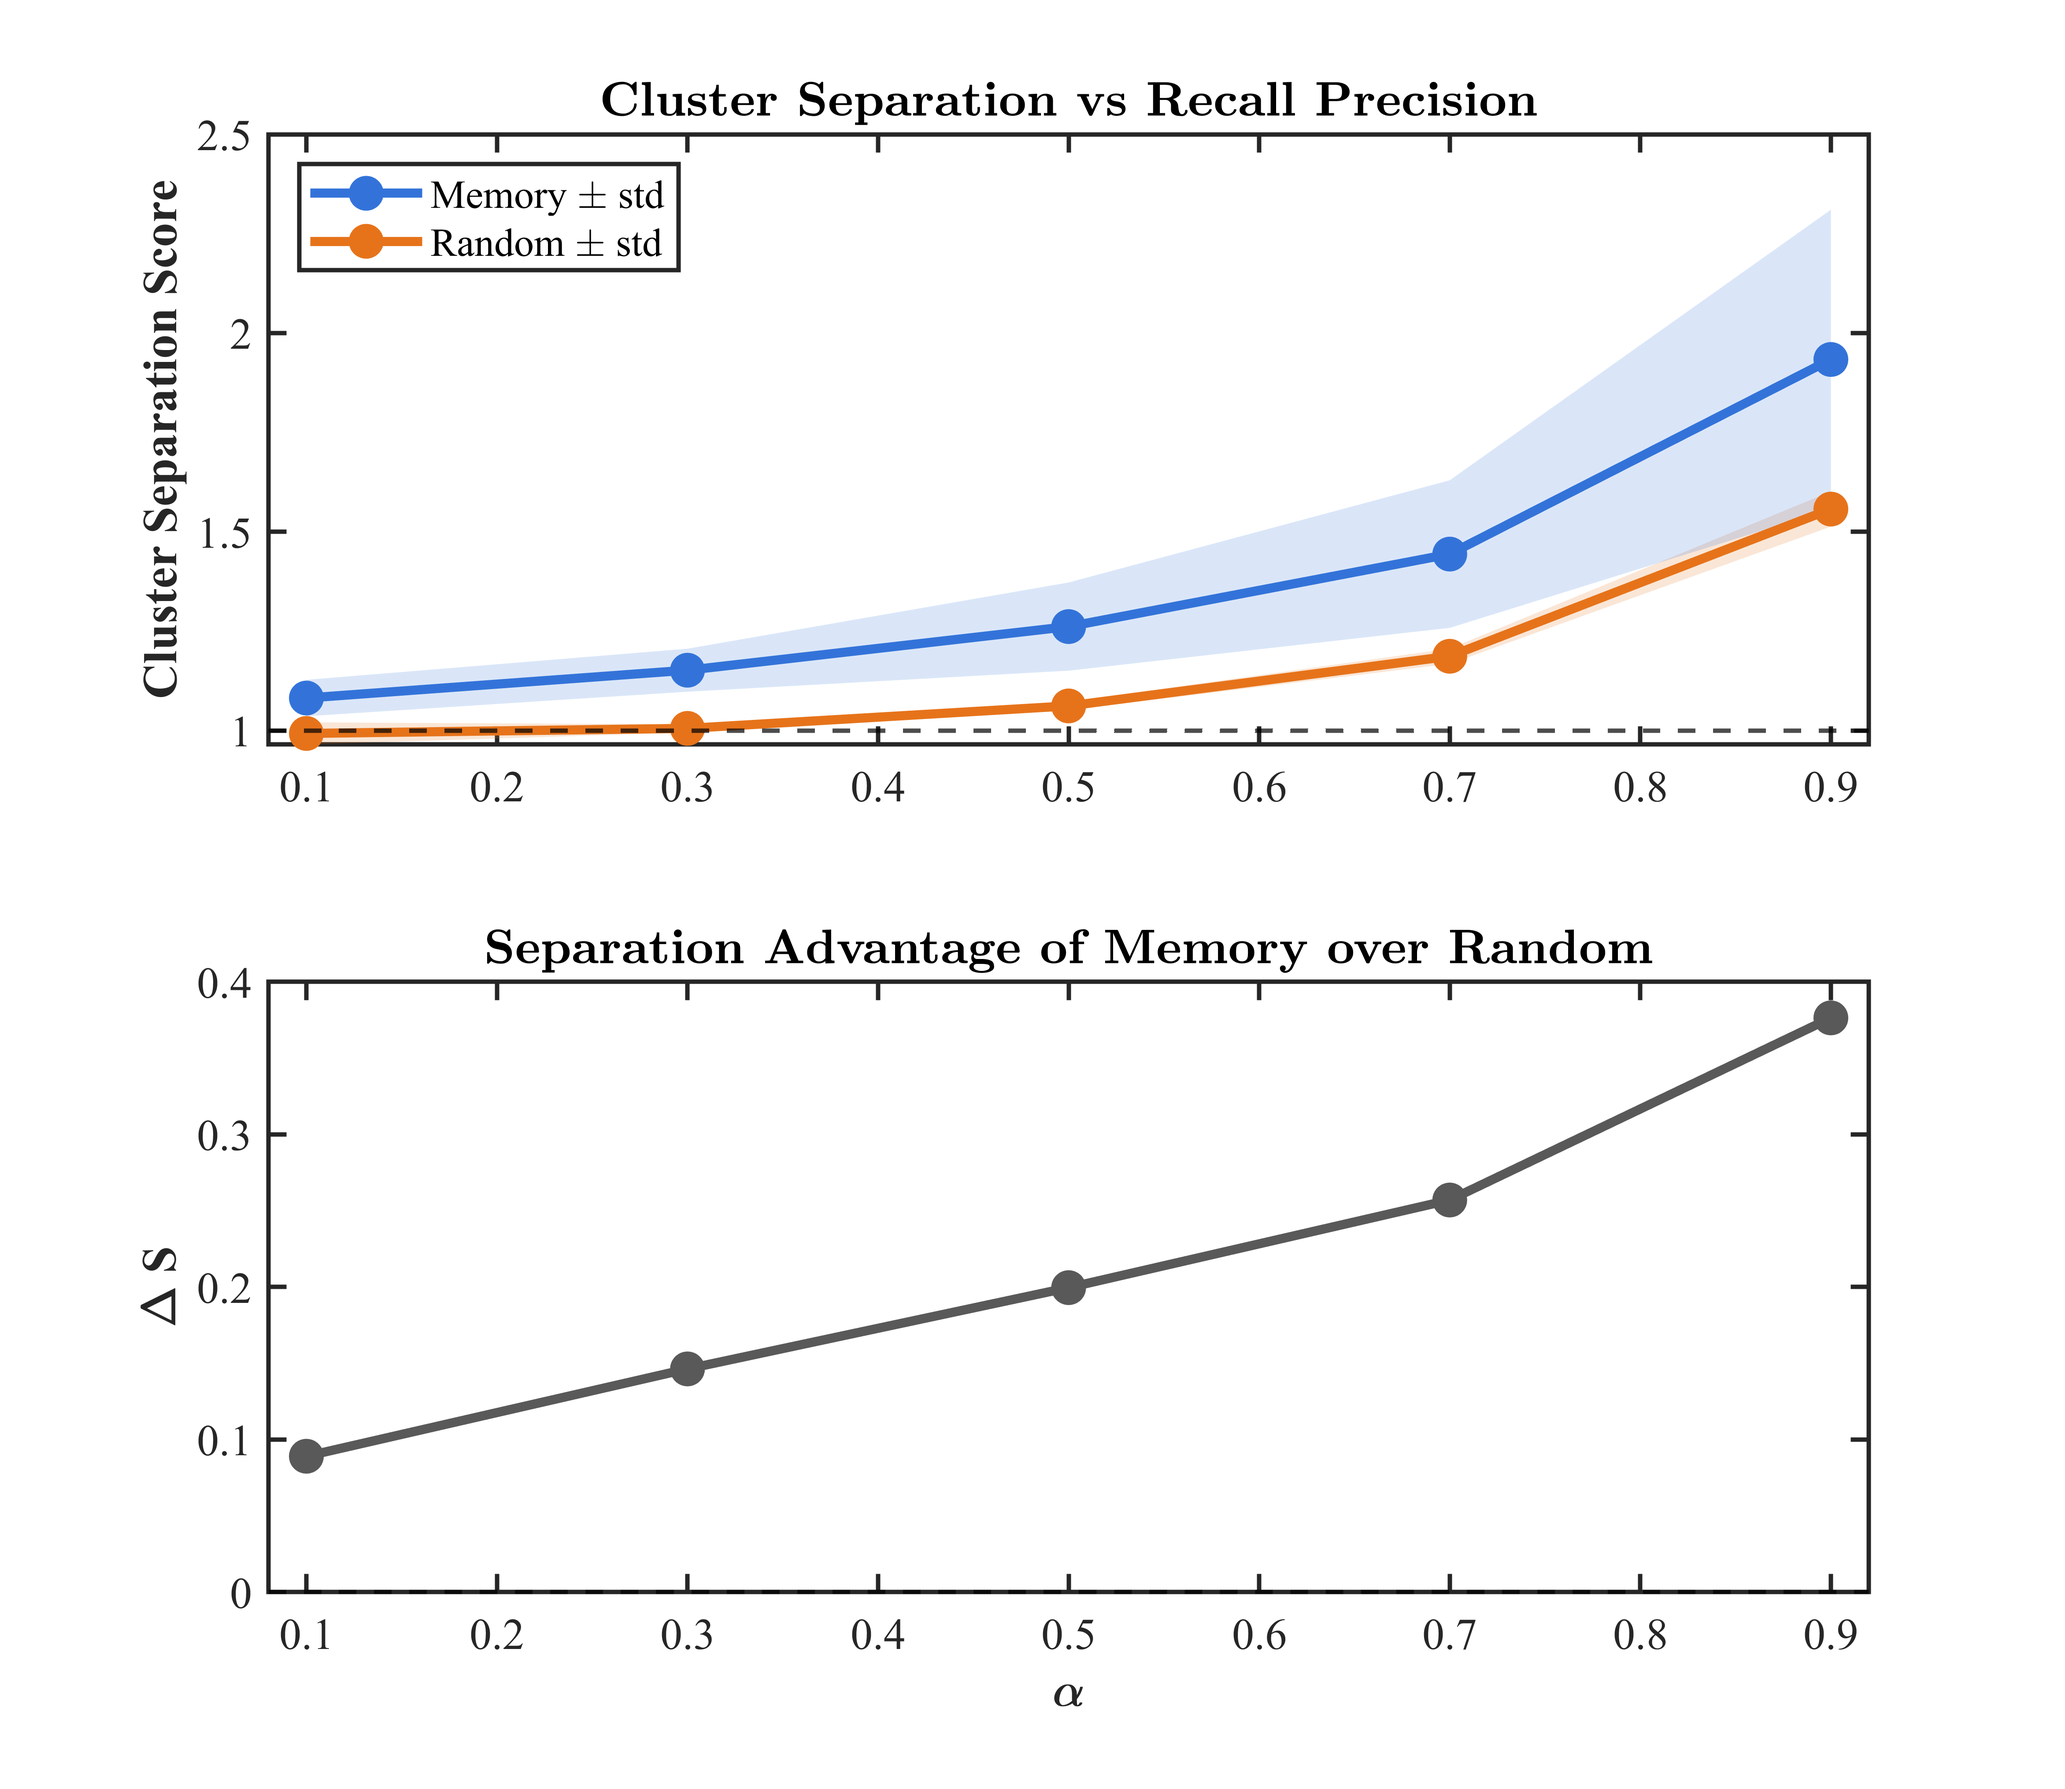
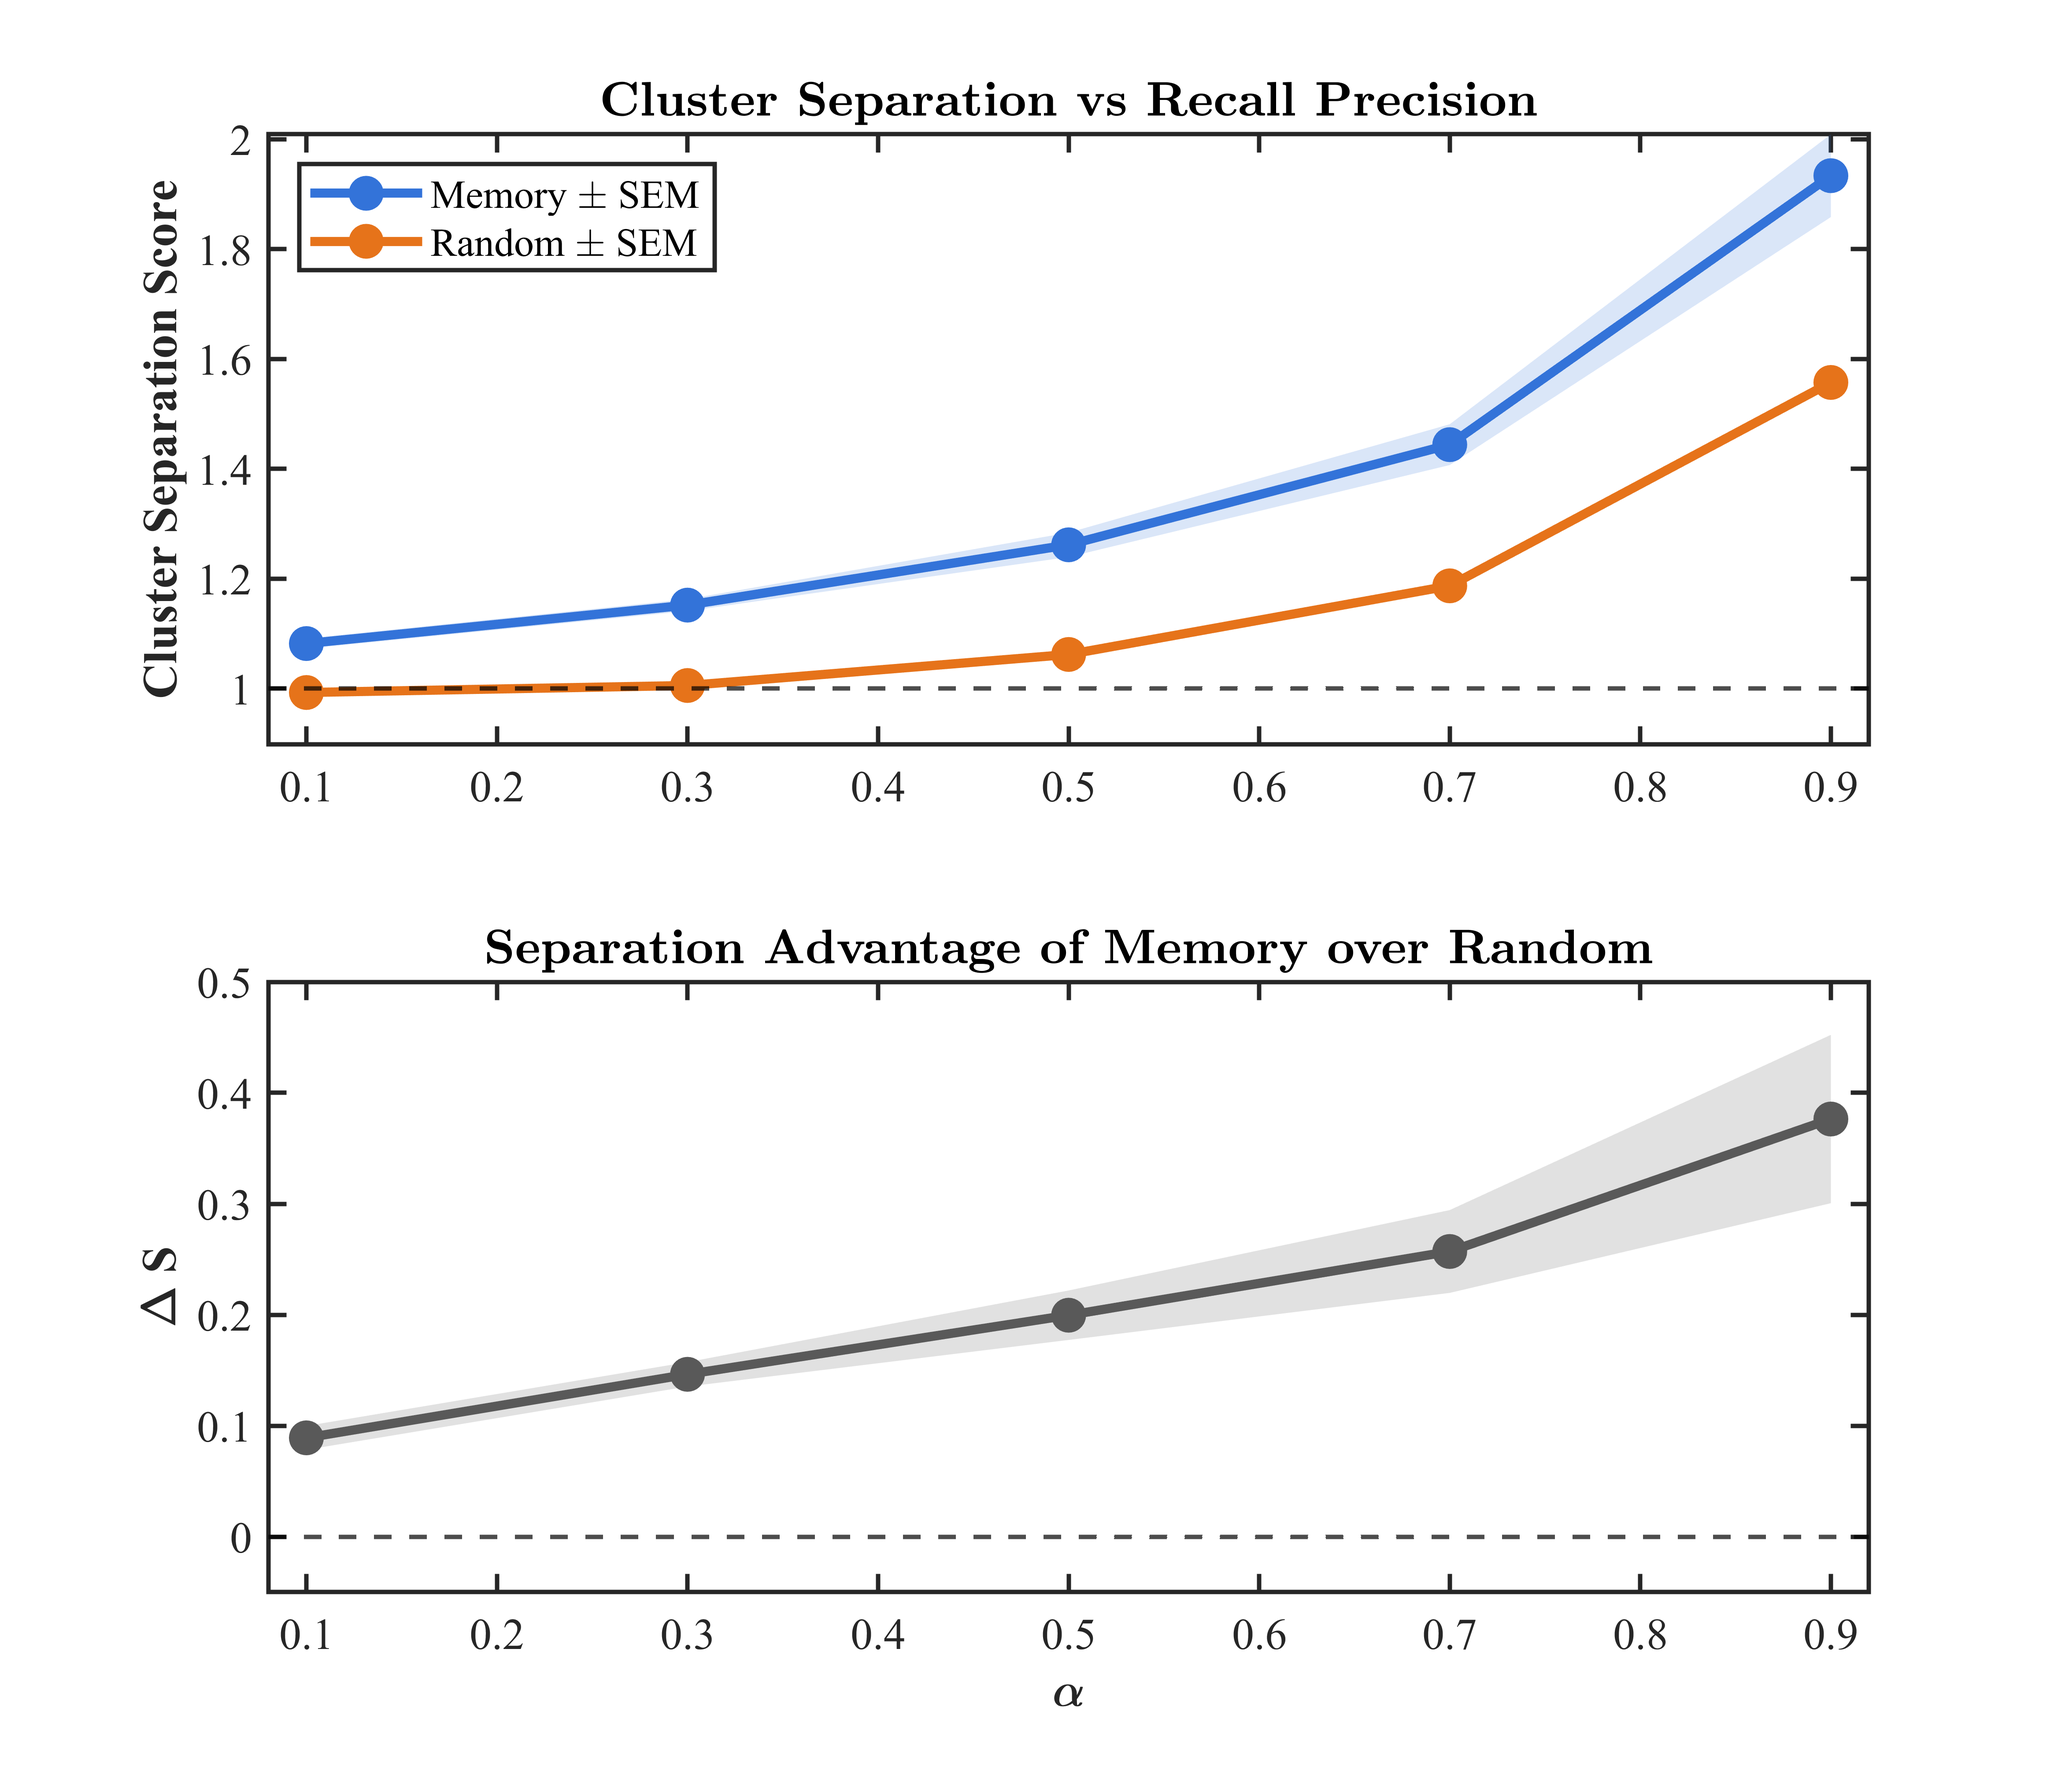
update to incldue SEM instread of std.

diff --git a/Analysis/Part3(ClassificationSequential)/FigureScripts/PlotSeparationVsAlpha_Shaded.m b/Analysis/Part3(ClassificationSequential)/FigureScripts/PlotSeparationVsAlpha_Shaded.m
@@ -1,12 +1,12 @@
 % PlotSeparationVsAlpha_Shaded.m  (FigureScripts/)
 %
-% Enhanced version of PlotSeparationVsAlpha with shaded standard-deviation
-% bands. Produces a two-panel figure:
-%   Top panel  -- Mean cluster separation score (with shaded +/- std) for
+% Enhanced version of PlotSeparationVsAlpha with shaded standard-error
+% bands (SEM). Produces a two-panel figure:
+%   Top panel  -- Mean cluster separation score (with shaded +/- SEM) for
 %                 Memory (blue) and Random (orange) clusters vs alpha.
 %   Bottom panel -- Delta-S (Memory mean - Random mean) vs alpha,
 %                   quantifying the separation advantage of learned
-%                   memories over random patterns.
+%                   memories over random patterns (with propagated SEM).
 %
 % Requires: clusterDistanceMatrices.mat (produced by Step4_plots.m)
 % Run from: the Part3(ClassificationSequential) root directory.
@@ -26,8 +26,8 @@ load(clusterMatPath, "clusterDictionary");
 
 S_memory_mean = zeros(size(alphas));
 S_random_mean = zeros(size(alphas));
-S_memory_std  = zeros(size(alphas));
-S_random_std  = zeros(size(alphas));
+S_memory_sem  = zeros(size(alphas));
+S_random_sem  = zeros(size(alphas));
 
 for aIdx = 1:numel(alphas)
     alpha = alphas(aIdx);
@@ -58,11 +58,12 @@ for aIdx = 1:numel(alphas)
     S_memory_mean(aIdx) = mean(S_memory, 'omitnan');
     S_random_mean(aIdx) = mean(S_random, 'omitnan');
 
-    S_memory_std(aIdx) = std(S_memory, 'omitnan');
-    S_random_std(aIdx) = std(S_random, 'omitnan');
+    S_memory_sem(aIdx) = std(S_memory, 'omitnan') / sqrt(sum(is_memory));
+    S_random_sem(aIdx) = std(S_random, 'omitnan') / sqrt(sum(is_random));
 end
 
 deltaS = S_memory_mean - S_random_mean;
+deltaS_sem = sqrt(S_memory_sem.^2 + S_random_sem.^2);
 
 %% Plot: top = shaded summary, bottom = gap
 figure('Color','w','Position',[100 100 750 650],'Visible',visible);
@@ -70,8 +71,8 @@ figure('Color','w','Position',[100 100 750 650],'Visible',visible);
 % -------- Top panel --------
 ax1 = subplot(2,1,1); hold on;
 
-plot_shaded(alphas, S_memory_mean, S_memory_std, [0.2 0.45 0.85]);
-plot_shaded(alphas, S_random_mean, S_random_std, [0.90 0.45 0.10]);
+plot_shaded(alphas, S_memory_mean, S_memory_sem, [0.2 0.45 0.85]);
+plot_shaded(alphas, S_random_mean, S_random_sem, [0.90 0.45 0.10]);
 
 plot(alphas, S_memory_mean, '-o', 'LineWidth', 2.5, ...
     'Color', [0.2 0.45 0.85], 'MarkerFaceColor', [0.2 0.45 0.85], 'MarkerSize', 7);
@@ -85,13 +86,16 @@ ylabel('Cluster Separation Score', 'FontSize', 13, 'FontWeight', 'bold');
 title('\textbf{Cluster Separation vs Recall Precision}', ...
     'Interpreter', 'latex', 'FontSize', 18);
 
-legend({'', '', 'Memory \pm std','Random \pm std'}, 'Location', 'northwest');
+legend({'', '', 'Memory \pm SEM','Random \pm SEM'}, 'Location', 'northwest');
 set(gca, 'FontSize', 12, 'LineWidth', 1.2);
 box on;
 xlim([min(alphas)-0.02, max(alphas)+0.02]);
+yl = ylim; ylim([min(yl(1), 1 - 0.1*range(yl)), max(yl(2), 1 + 0.1*range(yl))]);
 
 % -------- Bottom panel --------
 ax2 = subplot(2,1,2); hold on;
+
+plot_shaded(alphas, deltaS, deltaS_sem, [0.35 0.35 0.35]);
 
 plot(alphas, deltaS, '-o', 'LineWidth', 2.5, ...
     'Color', [0.35 0.35 0.35], 'MarkerFaceColor', [0.35 0.35 0.35], 'MarkerSize', 7);
@@ -107,6 +111,7 @@ title('\textbf{Separation Advantage of Memory over Random}', ...
 set(gca, 'FontSize', 12, 'LineWidth', 1.2);
 box on;
 xlim([min(alphas)-0.02, max(alphas)+0.02]);
+yl = ylim; ylim([min(yl(1), 0 - 0.1*range(yl)), max(yl(2), 0 + 0.1*range(yl))]);
 
 linkaxes([ax1, ax2], 'x');
 
